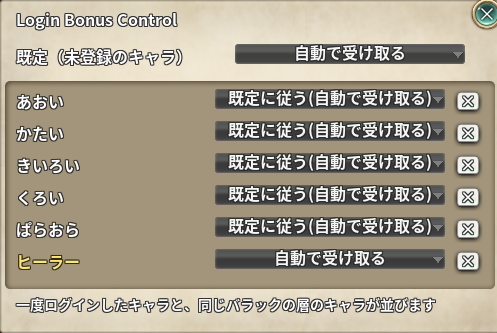
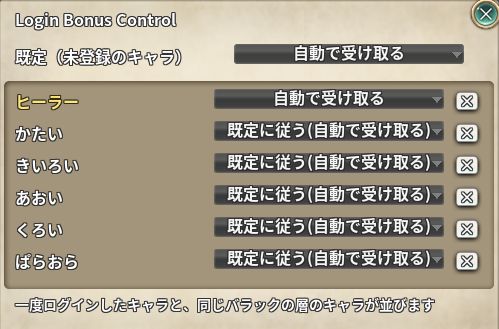
docs(login_bonus_control): 設定画面のスクリーンショットをバラック順のものに差し替える

diff --git a/nexus_addons_p/src/addons/login_bonus_control/README.md b/nexus_addons_p/src/addons/login_bonus_control/README.md
@@ -18,7 +18,7 @@
 | **キャラの行** | キャラごとに「既定に従う / 表示する / 表示しない / 自動で受け取る」を選ぶ。初期値は「既定に従う」 |
 | **×** | 一覧からキャラを消す（削除したキャラの片付け用） |
 
-![Login Bonus Control の設定画面。上に「既定（未登録のキャラ）」のドロップダウン（自動で受け取る）があり、その下にキャラ名ごとのドロップダウンと × ボタンが並ぶ。今のキャラ「ヒーラー」は黄色で「自動で受け取る」、他のキャラは「既定に従う(自動で受け取る)」](images/01-settings.png)
+![Login Bonus Control の設定画面。上に「既定（未登録のキャラ）」のドロップダウン（自動で受け取る）があり、その下にキャラ名ごとのドロップダウンと × ボタンがバラック順に並ぶ。先頭の今のキャラ「ヒーラー」は黄色で「自動で受け取る」、他のキャラは「既定に従う(自動で受け取る)」](images/01-settings.png)
 
 | モード | ログインしたとき |
 | --- | --- |
